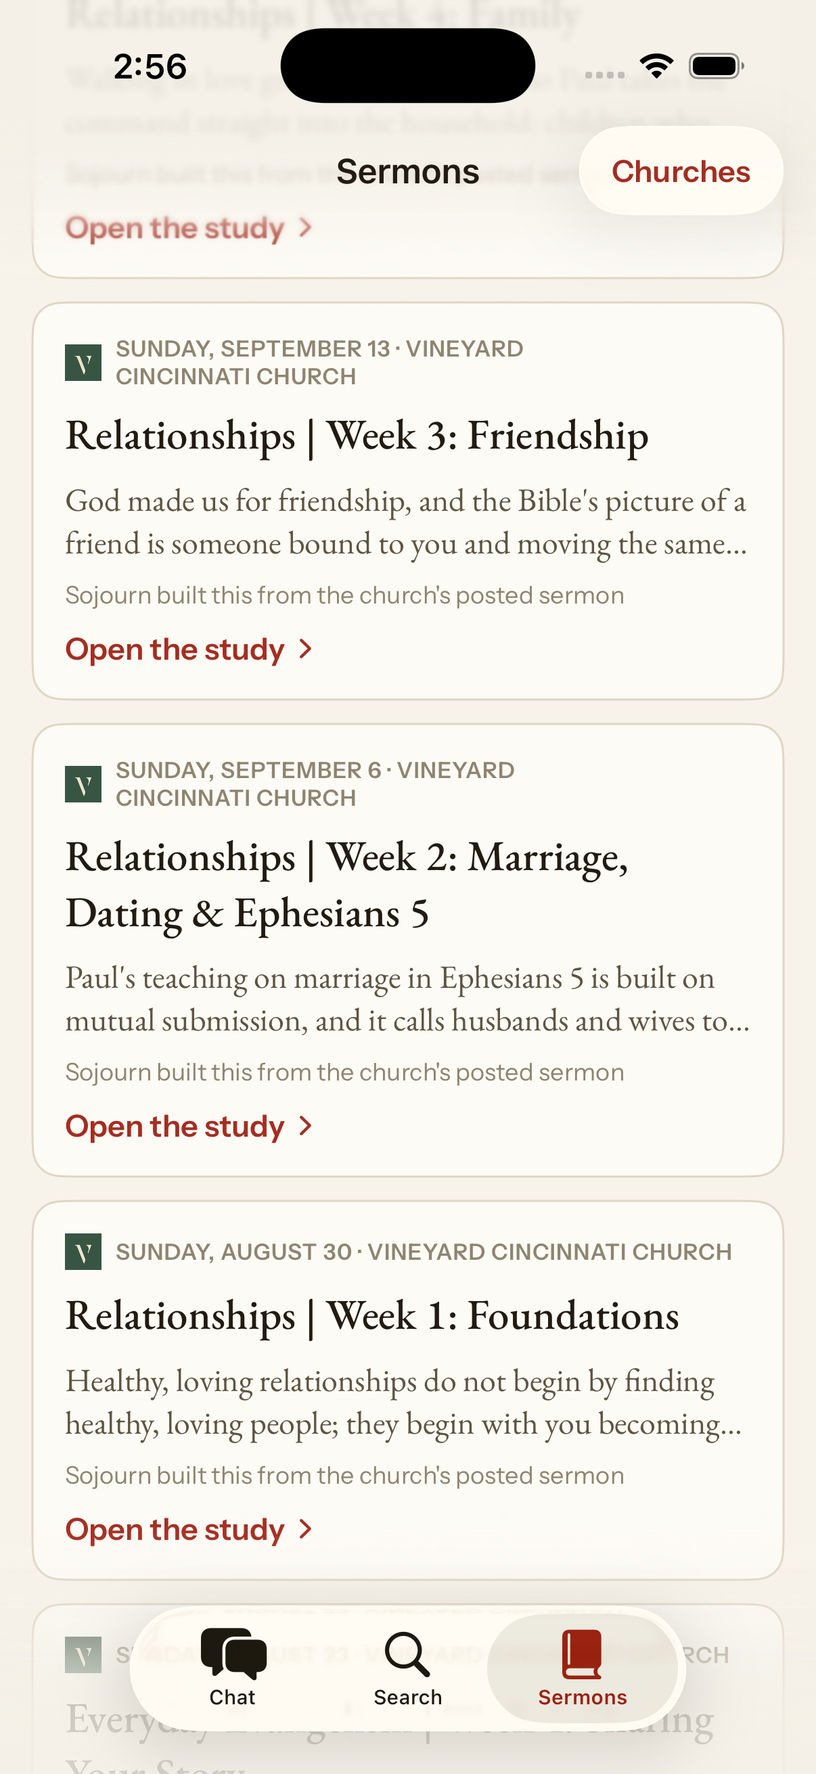
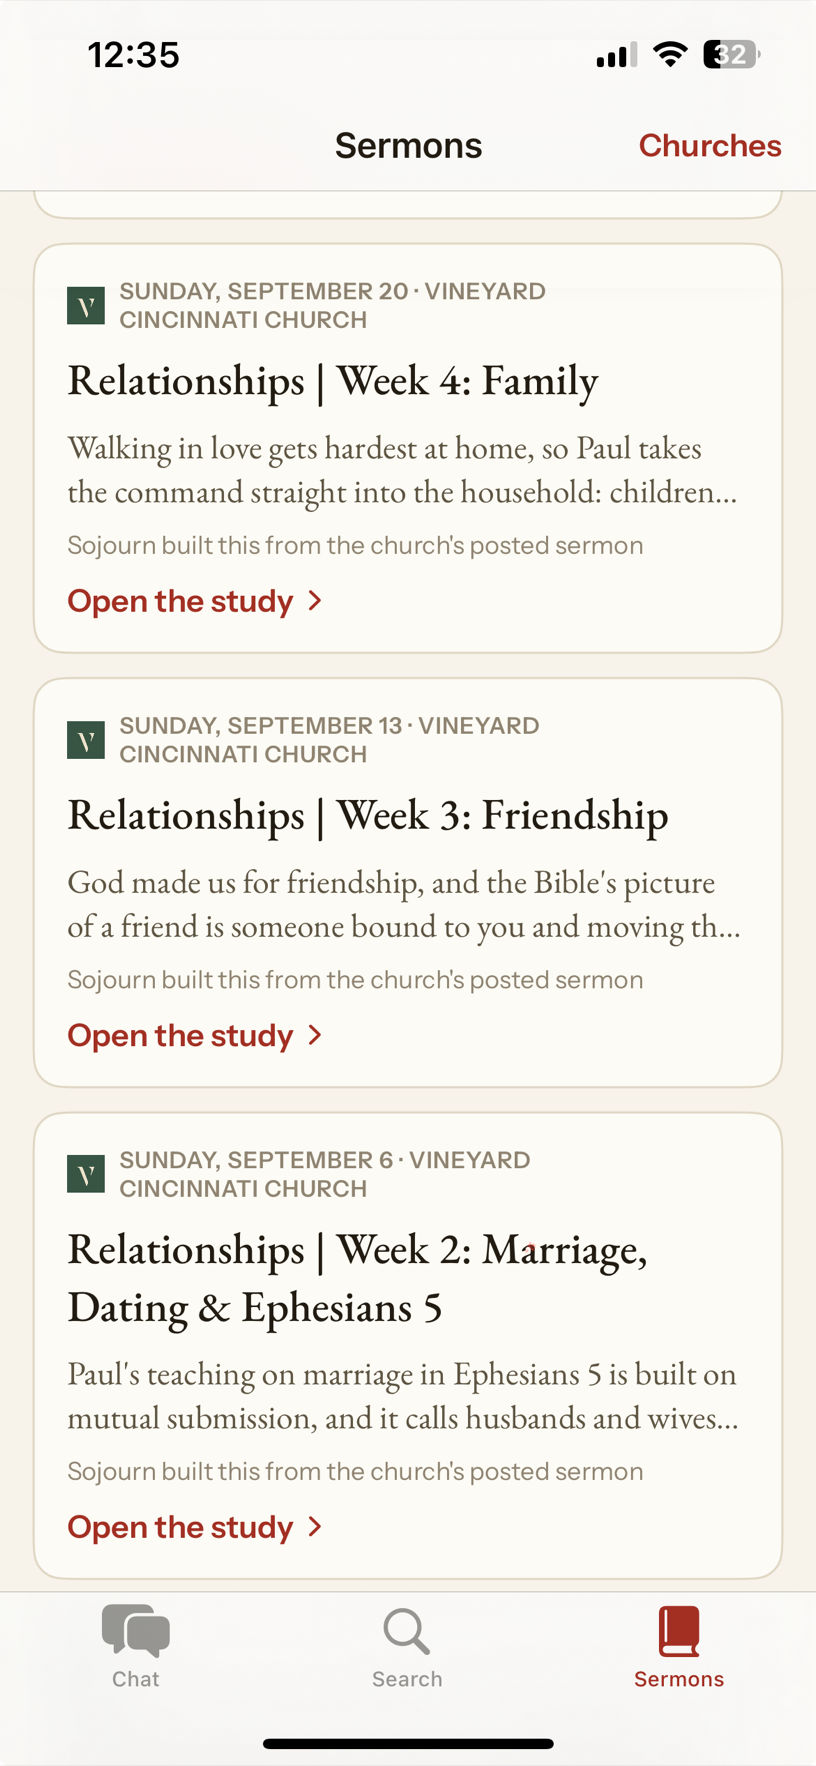
Animate the notification landing on the sermon hero
The first hero tab now starts on the plain sermon list and fades the
church's push notification in a beat later, so the thing the page is
about happens in front of you.

Crossfading the two captures whole would have shimmered the entire
frame: they are the same screen, but one came from a lossless PNG and
one from a JPEG, so every row outside the banner differed by a few
levels. The base is composited instead, lossless everywhere with the
hidden header spliced back in, and only the 248px banner band is laid
over it. Nothing outside that band is touched while it fades, and the
overlay costs 11KB instead of a second full frame.

Every hero shot now ships WebP beside its JPEG, encoded from the
lossless composite rather than from the JPEG, which halves the bytes.
CLAUDE.md picks up an Images section with the toolchain and the rules.

Changed region(s): [[0.0306, 0.1246, 0.9191, 1.0], [0.0613, 0.0, 0.7047, 0.1246], [0.7047, 0.0, 0.9498, 0.1246]]

diff --git a/sermons/index.html b/sermons/index.html
@@ -99,6 +99,13 @@
   .sm-screen.is-on{opacity:1;}
   .sm-screen img{position:absolute;top:0;left:0;width:100%;height:auto;}
   .sm-screen.from-bottom img{top:auto;bottom:0;}
+  /* The Sermons screen fades in just the notification banner, cropped from the same
+     capture, so nothing else in the shot shifts while it lands. The banner sits 40px
+     down a 248px strip, and translateY resolves against the strip's own height, so the
+     offset tracks the image at any width. */
+  .sm-notify{opacity:0;transform:translateY(calc(100% * 40 / 248));}
+  .sm-notify.run{animation:sm-notify-in .55s ease 1.1s forwards;}
+  @keyframes sm-notify-in{from{opacity:0;}to{opacity:1;}}
 
   .sm-cell{background:var(--paper);padding:clamp(32px,4vw,48px) clamp(20px,5vw,56px);display:flex;flex-direction:column;gap:10px;}
   .sm-cell .h{font-size:26px;font-weight:500;line-height:1.15;}
@@ -120,7 +127,7 @@
   .sm-note{flex:1 1 420px;max-width:520px;font-family:var(--sans);font-size:16px;color:#F7F3EA;}
   .sm-err{display:none;flex:1 1 100%;font-family:var(--sans);font-size:14px;color:var(--rubric-soft);}
 
-  @media (prefers-reduced-motion:reduce){*{animation:none!important;}}
+  @media (prefers-reduced-motion:reduce){*{animation:none!important;}.sm-notify{opacity:1;}}
   @media (max-width:820px){
     .lp-pad{padding-left:22px!important;padding-right:22px!important;}
     /* Once the hero stacks, the phone and its pills get their own row and sit centered in it. */
@@ -168,10 +175,16 @@
         <button class="sm-tab" role="tab" type="button" id="tab-chat" aria-controls="screen-chat" aria-selected="false">Chat</button>
       </div>
       <div class="sm-shot" id="sm-stage">
-        <picture class="sm-screen is-on" id="screen-list" role="tabpanel" aria-labelledby="tab-list">
-          <source srcset="/assets/shot-sermons-feed.webp" type="image/webp">
-          <img src="/assets/shot-sermons-feed.jpg" width="816" height="1774" alt="The Sermons tab in Sojourn, showing a church's weekly studies" fetchpriority="high" decoding="async">
-        </picture>
+        <div class="sm-screen is-on" id="screen-list" role="tabpanel" aria-labelledby="tab-list">
+          <picture>
+            <source srcset="/assets/shot-sermons-feed.webp" type="image/webp">
+            <img src="/assets/shot-sermons-feed.jpg" width="816" height="1766" alt="The Sermons tab in Sojourn, showing a church's weekly studies as a notification arrives" fetchpriority="high" decoding="async">
+          </picture>
+          <picture>
+            <source srcset="/assets/shot-sermons-notify.webp" type="image/webp">
+            <img class="sm-notify run" src="/assets/shot-sermons-notify.jpg" width="816" height="248" alt="" aria-hidden="true" decoding="async">
+          </picture>
+        </div>
         <picture class="sm-screen" id="screen-detail" role="tabpanel" aria-labelledby="tab-detail" aria-hidden="true">
           <source srcset="/assets/shot-sermon-detail.webp" type="image/webp">
           <img src="/assets/shot-sermon-detail.jpg" width="816" height="1774" alt="A sermon study in Sojourn, with the passages that were preached" decoding="async">
@@ -311,6 +324,14 @@
         s.classList.toggle('is-on', n === i);
         if(n === i){ s.removeAttribute('aria-hidden'); } else { s.setAttribute('aria-hidden', 'true'); }
       });
+      // Replay the notification fade. It keeps its end state while the screen fades out,
+      // so the banner never blinks away mid-transition.
+      var notify = screens[i] && screens[i].querySelector('.sm-notify');
+      if(notify){
+        notify.classList.remove('run');
+        void notify.offsetWidth;
+        notify.classList.add('run');
+      }
     }
     tabs.forEach(function(t, n){
       t.addEventListener('click', function(){ manual = true; show(n); });

diff --git a/CLAUDE.md b/CLAUDE.md
@@ -177,6 +177,55 @@ regenerate `writings/index.html` from `blog-list-template.html`:
 </li>
 ```
 
+## Images
+
+Every raster asset lives in `assets/` and is served from `/assets/<name>`. Screenshots are
+the heaviest thing the site ships, so they are always resized and re-encoded before they
+land in the repo. Never commit a file straight out of Photos, Downloads, or a simulator.
+
+**Required tools.** `brew install jpeg-turbo webp`. Check with `which cjpeg cwebp jpegtran`
+before encoding anything. `sips` ships with macOS and is fine for resizing, but its JPEG
+encoder is much worse than libjpeg-turbo (it produced 128KB where `cjpeg` produced 73KB on
+the same picture), and it writes top-down BMPs that `cjpeg` rejects with `Empty BMP image`,
+so convert through PPM when piping between them.
+
+**Every image ships as both WebP and JPEG**, as a `<picture>` with the WebP first:
+
+```html
+<picture>
+  <source srcset="/assets/<name>.webp" type="image/webp">
+  <img src="/assets/<name>.jpg" width="816" height="1766" alt="..." decoding="async">
+</picture>
+```
+
+WebP runs roughly 40% smaller than JPEG at the same visible quality, so it is worth the
+second file every time. `<source>` wins over `<img>`, which means **a stale `.webp` beside a
+new `.jpg` silently serves the old picture to most browsers**. Regenerate both together or
+delete both.
+
+**Encoding.** Resize to the width the page actually renders (816 for the phone shots), then
+take exactly one lossy step from the most original source available. Encoding a JPEG that
+came from another JPEG stacks generation loss, so reach for the PNG or the screenshot
+original when there is one.
+
+```
+sips --resampleWidth 816 -s format bmp in.png --out t.bmp   # resize, lossless
+cjpeg -quality 80 -progressive -optimize -sample 1x1 -outfile out.jpg t.ppm
+cwebp -q 80 -m 6 in.png -o out.webp
+```
+
+Keep `-sample 1x1` (no chroma subsampling) on anything with text in it; the screenshots are
+all text. Quality 80 holds up on serif body copy. `jpegtran -copy none -optimize -progressive`
+is a free lossless pass that also strips metadata, so run it and keep the result if smaller.
+
+**Crossfading two shots.** When one screenshot fades into another to animate something (the
+notification landing on `/sermons/`), the two files must be identical everywhere except the
+part that changes, or the whole frame shimmers. Two captures of the same screen are not
+identical: a PNG and a JPEG of the same moment differ by several levels on every pixel.
+Crop the changing region out of one capture and lay that strip over the other with CSS
+rather than crossfading two full frames. It removes the shimmer completely and the strip is
+a fraction of the bytes (23KB instead of a second 161KB frame).
+
 ## Rules
 
 - Editing a post's markdown means re-rendering **both** `writings/<slug>/index.html`
